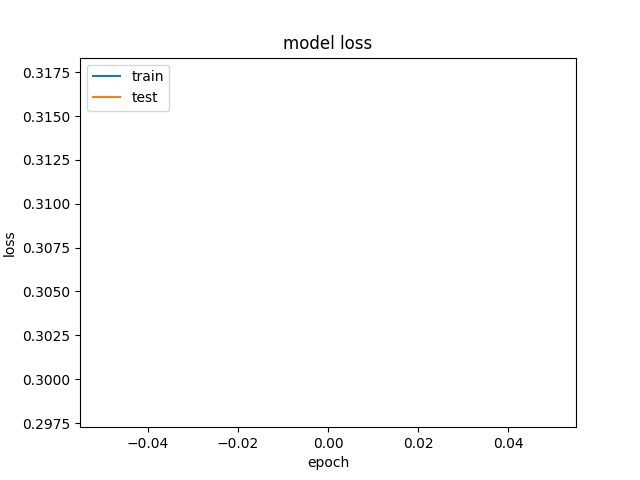
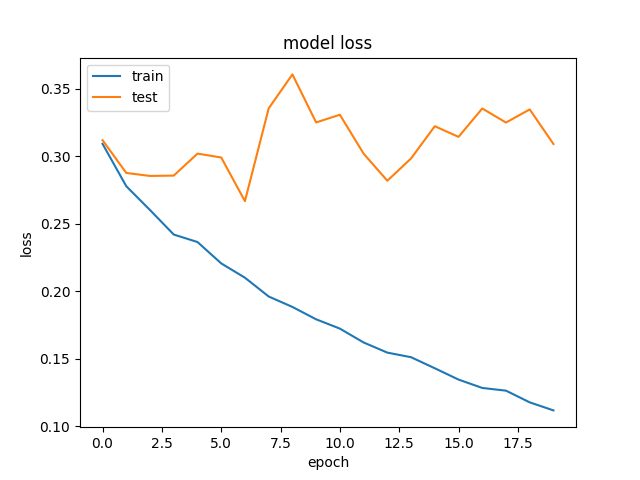
training siames

diff --git a/Siamese_Model.py b/Siamese_Model.py
@@ -27,10 +27,10 @@ ap.add_argument('-g', '--gpus', type=int, default=1, help='# of GPUs to use for 
 args = vars(ap.parse_args())
 G = args["gpus"]
 
-NUM_EPOCHS = 1
+NUM_EPOCHS = 20
 INIT_LR = 1e-5
 lr_decay = 0
-training_batch_size = 64
+training_batch_size = 32
 # samples_per_checkpoint = 1000
 validation_split = 0.005
 data_percent = 1
